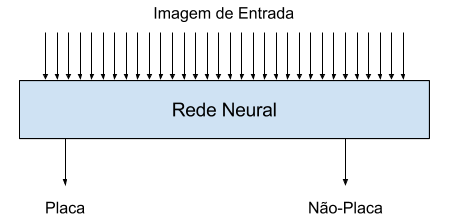
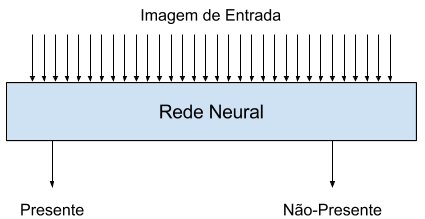
Alterações sugeridas pelo professor até o capítulo 2 foram integradas.

diff --git a/src/capitulo2.tex b/src/capitulo2.tex
@@ -3,7 +3,8 @@
 \chapter{Redes Neurais Convolucionais}
 \setcounter{figure}{100}
 
-Rede neural artificial (ANN) é um modelo computacional inspirado na forma com
+Rede neural artificial (\sigla{ANN}{\emph{Artificial Neural Network},
+rede neural artificial}) é um modelo computacional inspirado na forma com
 que o cérebro resolve problemas \cite{gilbert2000build}. Este modelo possui
 unidades, denominadas neurônios, que possuem um valor que é calculado como uma
 função do valor de outros neurônios.
@@ -267,7 +268,7 @@ a entrada seja nula.
 \subsection{Bordas} \label{ses:bordas}
 Como já foi mencionado, a convolução é aplicado de forma idêntica a aplicação
 de um filtro linear \cite{gonzalezwoods200708}, e assim como no caso dos
-filtros lineares, existem algumas opções no tratamento de bordas dos dados.
+filtros lineares, existem algumas opções para tratamento de bordas dos dados.
 
 Na figura \ref{fig:ex_conv_2d} o tamanho do tensor de saída foi reduzido
 de 6 para 4. Neste caso a opção foi por não extender as bordas. Por
@@ -381,19 +382,32 @@ acabam reduzindo consideravelmente o tamanho do tensor de saída. No caso de um
 maxpool $2 \times 2$, por exemplo, o tensor resultante vai ter 25\% do
 número de valores do tensor de entrada.
 
+Uma camada convolucional com pooling pode ser contada como uma única camada ou
+como duas, dependendo do caso. Em algumas arquiteturas mais complexas, como em
+\cite{szegedy2015going}, onde define-se camadas do tipo \emph{inception},
+pode não ser possível associar uma operação de \emph{pooling} a uma única
+convolução, requerendo contagem separada.
+
 \subsection{ReLu}
 Assim como em redes neurais totalmente conectadas, pode-se aplicar uma função
 de ativação para tornar a camada não-linear. As funções tangente
 hiperbólica, sigmóide ou outras tipicamente usadas em redes neurais
-não-convolucionais podem ser aplicadas. No entanto a função ReLu, ou linear
+não-convolucionais podem ser aplicadas. No entanto a função
+\sigla{ReLu}{\emph{Rectified linear}, linear retificada}, ou linear
 retificada, resulta em treinamento substancialmente mais rápido enquanto
-mantém a capacidade de
-generalização da rede neural treinada. A função ReLu é definida por:
+mantém a capacidade de generalização da rede neural treinada. A função
+ReLu é definida por:
 
 
 \begin{equation}
 	ReLu(x) = max(0,x)
 \end{equation}
+
+Quando uma camada de uma rede neural inclui apenas elementos lineares,
+ela é dita linear. O operador de convolução em sí é linear, então
+isso vai ocorrer quando a camanda não inclui uma função de ativação, como
+a ReLu e não possui outros elementos não-lineares, como \emph{maxpool},
+caso o pooling esteja sendo considerado como parte da camada convolucional.
 
 \subsection{Últimas Camadas}
 Após as camadas convolucionais terem sido aplicadas é necessário usar um
@@ -465,24 +479,54 @@ a rede neural aprende a reconhecer um \emph{feature} em um local da
 imagem, não vai
 conseguir reaproveitar essa capacidade em outras posições. Portanto teria que
 aprender a mesma \emph{feature} em cada possível posição onde ela possa
-aparecer, e
-fazer isso para todas as \emph{features}.
+aparecer, e fazer isso para todas as \emph{features}.
 
 Como a primeira operação feita foi converter a imagem para um formato “plano”, a
 geometria da imagem foi destruída. Não é mais possível determinar quando dois
 pixels estão próximos, e essa é uma informação muito importante sobre a imagem.
 
+\subsection{Uso de descritores}
+Uma das abordagens possíveis para reconhecimento e detecção de imagens é o uso
+de descritores. Esta foi a abordagem dominante até pouco tempo atrás.
+
+Os descritores são operações que tomam uma imagem como entrada e resumem as sua
+características em um set menor de informações. Exemplos de descritores muito
+usados são \sigla{LBP}{Local binary patterns} \cite{wang1990texture},
+\sigla{ORB}{Oriented FAST and rotated BRIEF} \cite{rublee2011orb},
+\sigla{HOG}{Histogram of oriented gradients} \cite{dalal2005histograms},
+Haar-Wavelets \cite{nabout2008object},
+filtros de Gabor \cite{riaz2012invariant}. O treinamento é realizado sobre
+as features extraídas pelo descritor escolhido usando um classificador como
+redes neurais ou \sigla{SVM}{\emph{Support vector machine}}.
+
+Para usar esta abordagem um descritor precisa ser escolhido e configurado,
+muitas vezes manualmente. O desempenho do sistema como um todo vai depender
+dessas escolhas. Se a operação de detecção depender de conceitos complexos,
+envolvendo correlação entre múltiplas características, o descritor e o
+classificador precisam ser escolhidos especificamente para isso.
+
 \subsection{Redes Neurais Convolucionais em Imagens}
+As redes neurais convolucionais operam diretamente nos pixels da imagem, não
+sendo necessário escolher um descritor, e não possuem os problemas que as
+redes não-convolucionais possuem. As camadas convolucionais se comportam como
+descritores, porém os parâmetros são aprendidos como parte do processo de
+treinamento, portanto são otimizados para responderem precisamente para os
+exmeplos que forem fornecidos. Apenas alguns hiperparâmetros, como tamanho
+da convolução, número de filtros e de camadas precisam ser escolhidos mediante
+decisões de meta de precisão e recall, tempo para classificação e complexidade
+dos conceitos a serem aprendidos.
+
 As redes neurais convolucionais resolvem todos esses problemas simultaneamente.
 O primeiro ponto é a preservação da geometria da imagem. Se uma imagem de 50
 pixels de altura por 100 pixels de largura contendo 3 canais de cor for usado na
 entrada de uma rede neural convolucional, ela precisa ser representada por um
-tensor apropriado, como $32 \times 40 \times 120 \times 3$. Este tensor
-permite alimentar a rede neural com 32 imagens.
+tensor apropriado, como $32 \times 50 \times 100 \times 3$. Este tensor
+permite alimentar a rede neural com um lote de 32 imagens.
 
 Para aplicar uma camada convolucional à imagem de entrada escolhe-se o tamanho
 da convolução, o número de filtros e o modo de operação nas bordas. A figura
-\ref{fig:ex_cnn_img} ilustra um filtro 33 sendo aplicado à uma imagem RGB.
+\ref{fig:ex_cnn_img} ilustra um filtro 33 sendo aplicado a uma imagem
+\sigla{RGB}{\emph{Red, green, blue}, vermelho, verde, vermelho}.
 
 \begin{figure}[!htb]
 	\centering
@@ -501,7 +545,7 @@ da convolução, o número de filtros e o modo de operação nas bordas. A figur
 Para que o filtro tenha profundidade 64, por exemplo, o tensor que define o
 filtro será $64 \times 3 \times 3 \times 3$ e o tensor resultante da
 convolução será $32 \times 40 \times 120 \times 64$,
-considerando que seja usado padding nas bordas.
+considerando que seja usado preenchimento nas bordas.
 
 Para finalizar a camada convolucional adiciona-se um bias. Para isso usa-se um
 escalar para cada uma das 64 imagens resultantes. O tensor que define os bias é
@@ -520,7 +564,7 @@ ilustra o uso das três camadas em sequência.
 	Exemplo de uma sequência de operações feitas usando uma rede neural
 	convolucional incluindo 64 convoluções $3 \times 3$, maxpool e ReLu
 	aplicadas em uma
-	batch de 32 imagens $40 \times 120 \times 3$. Os parâmetros treináveis
+	lote de 32 imagens $40 \times 120 \times 3$. Os parâmetros treináveis
 	estão destacados (próprio autor).
 \end{figure}
 
@@ -529,13 +573,13 @@ o tamanho total do tensor seja pequeno o suficiente para poder ser processado
 por duas camadas totalmente conectadas. 
 
 \subsection{Uso de Cores}
-Em alguns sistemas de visão computacional costuma-se usar imagens em
+Em alguns sistemas de visão computacional são usadas imagens em
 tons de cinza. No caso de redes convolucionais o mais comum é usar
 imagens coloridas.
 
 O primeiro motivo para isso é que as imagens e vídeos são normalmente
-captadas com cores, então colorir vai requere processar a imagem para
-que a conversao seja feita. 
+captadas com cores, então o processo de detecção teria que incluir uma operação
+de conversão para escala de cinza. 
 
 Pode-se demonstrar todos os métodos de conversão lineares de RGB para escala de
 cinzas, como:
@@ -554,12 +598,12 @@ essa conversão de forma eficiente, sendo que os coeficientes associados
 treinados pelo otimizador, potencialmente obtendo uma conversão mais apropriada
 para a rede neural.
 
-Outro ponto é que os sistemas os classificadores de imagem usam cores
-\cite{szegedy2015going} \cite{hasanpour2016lets}, portanto nos casos onde
-existe \emph{budget} computacional suficiente para se usar um número razoável
-de convoluções na primeira camada, a informação da cor pode ser vantajosa
-para para minimizar os erros da rede neural.
-
+Outro ponto é que os sistemas que representam o atual
+estado-da-arte para reconhecimento de imagem, como \cite{szegedy2015going}
+\cite{hasanpour2016lets}, usam cores, portanto nos casos onde
+existe \emph{budget} computacional, e particularmente quando é possível usar
+vários filtros convolucionais na primeira camada, a informação da cor pode
+ser vantajosa para para minimizar os erros da rede neural.
 
 \subsection{Reconhecimento de Objetos}
 Existem várias maneiras de se usar redes neurais para reconhecer objetos. Duas
@@ -581,9 +625,9 @@ usando a equação:
 		{\sum_j exp\left( \widehat{out}[j] \right)}
 \end{equation}
 
-Para identificar a presença ou não de uma placa de um veículo, duas classes
-seriam definidas: "placa" e "não-placa", resultando em uma rede neural como
-mostrada na figura \ref{fig:ex_classif_logist}.
+Para identificar a presença ou não do objeto que está sendo procurado, duas
+classes seriam definidas: "presente" e "não-presente", resultando em uma rede
+neural como mostrada na figura \ref{fig:ex_classif_logist}.
 
 \begin{figure}[!htb]
 	\centering
@@ -591,8 +635,8 @@ mostrada na figura \ref{fig:ex_classif_logist}.
 	\caption{Exemplo de Classificador Logístico}
 	\label{fig:ex_classif_logist}
 	Este exemplo de rede neural possui uma imagem como entrada e possui duas
-	saídas, uma informando a probabilidade da imagem conter uma placa e a
-	outra indicando a probabilidade de não conter (próprio autor).
+	saídas, uma informando a probabilidade da imagem conter o objeto, outra
+	indicando a probabilidade de não conter (próprio autor).
 \end{figure}
 
 Este modelo pode ser treinado usando modo supervisionado, onde imagens
@@ -603,14 +647,17 @@ otimizador é a função \emph{cross entropy}:
 	\widehat{H} = - \sum_i \widehat{y_i} log(y_i)
 \end{equation}
 
-Onde $y$ é um tensor de dimensão $2$ que indica as probabilidades manualmente
-marcadas de uma imagem pertencer a cada classe (no caso, a probabilidade ser uma
-placa de carro e a probabilidade de não ser) e $y$ é um tensor com o mesmo número
-de dimensões que indica o valor estimado pela rede neural. $H$ é o valor estimado
-de \emph{cross entropy}.
+Onde $y_i$ é o valor da probabilidade manualmente
+marcadas de uma imagem pertencer à classe $i$ (no caso, a probabilidade de ser
+uma imagem que contém o objeto e a probabilidade não conter) e $\widehat{y_i}$
+é o valor estimado pela rede neural. $H$ é o valor estimado de
+\emph{cross entropy}.
 
-No nosso caso temos total certeza de que uma imagem é ou não uma placa, então
-serão usados somente os valores $0$ e $1$ para $y$.
+Quando têm-se o objeto desejado centrado na imagem, ou o objeto não consta
+em lugar nenhum da imagem usa-se os valores $0$ e $1$ para rotular os exemplos.
+Os casos onde o objeto está visível apenas parcialmente deve ser considerado
+cuidadosamente, produzindo valores intermediários nos rótulos, para evitar que
+duas imagens parecidas gerem valores muito diferentes na saída da rede neural.
 
 As redes neurais também podem ser usadas para fazer regressão, ou seja, modelar
 uma função. A forma mais óbvia de implementação é a regressão L2. Neste tipo de
@@ -624,15 +671,15 @@ A rede neural pode ser usada para modelar a função $P$, definida por:
 
 \begin{equation}
 	P(img) = \begin{cases}
-		1 \text{, se img contém uma placa} \\
-		0 \text{, se img não contém uma placa}
+		1 \text{, se img contém o objeto procurado} \\
+		0 \text{, se img não contém}
 	\end{cases}
 \end{equation}
 
-Exatamente essa definição não seria ideal. Uma definição alternativa que possa
-representar uma placa parcialmente visível na imagem usando um número entre 0 e
-$1$ vai ser necessária para evitar a criação de ruído no valor da perda que está
-sendo minimizado.
+Exatamente essa definição não seria ideal, pois não considera placas visíveis
+parcialmente. Em uma implementação real de classificador baseado neste método
+precisa definir uma função que seja contínua em resposta ao objeto é movido do
+centro da imagem para fora por qualquer caminho.
 
 \subsection{Localização de Objetos} \label{sec:localiz_objetos}
 Até agora foi mostrado como usar redes neurais convolucionais para detectar um
@@ -642,31 +689,11 @@ coordenadas do objeto.
 
 Um sistema de localização pode ser construído a partir de um sistema de
 detecção. A abordagem mais simples para isso envolve construir um sistema capaz
-de detectar o objeto de interesse, no caso uma placa de trânsito, e aplicar este
-detector à imagem usando um operador de correlação cruzada em
-duas dimensões. Se o
-detector for construído para produzir “1” quando detectar o objeto e “0” então
-os pontos de máxima são candidatos a centros dos objetos.
+de detectar o objeto de interesse e aplicar este
+detector à imagem várias vezes a imagem usando "janelas deslizantes".
+Se o detector for construído para produzir “1” quando detectar o objeto e
+“0” então os pontos de máxima são candidatos a centros dos objetos.
 
-Como em uma correlação cruzada, assim como na convolução, cada número de um dos
-operandos é multiplicado por todos os números contidos no outro operando, como
-demonstrado visualmente na figura \ref{fig:ex_sliding_stride1}. A propriedade
-é extensível para qualquer número de dimensões. O número de somas é igual ao
-número de multiplicações menos 1.
-
-
-\begin{figure}[!htb]
-	\centering
-	\includegraphics{ex_sliding_stride1.png}
-	\caption{Multiplicações resultantes do uso de janela deslisante}
-	\label{fig:ex_sliding_stride1}
-	Demonstração visual de que cada termo de cada operando em uma operação de
-	correlação cruzda é multiplicado exatamente uma vez por cada
-	um dos termos do outro operando, resultando em um número de
-	multiplicações igual ao produto do número de termos em cada operando
-	(próprio autor).
-\end{figure}
-
-A consequência disso é que quando se calcula a correlação cruzada entre duas
-imagens o número total de multiplicações é igual ao produto do número de pixels
-em cada imagem.
+Como cada pixel da imagem é candidato a centro do objeto que está sendo
+localizado, deve-se aplicar o filtro uma vêz para cada pixel. Se não houver
+extensão de bordas, o filtro não pode ser aplicado em parte dos pixels.

diff --git a/src/capitulo1.tex b/src/capitulo1.tex
@@ -13,12 +13,14 @@ possibilidade da busca por estratégias com menor custo ou melhor
 desempenho, à medida que avanços no campo do reconhecimento de
 imagens acontecem.
 
-Redes neurais convolucionais (CNN, convolutional neural networks)
+Redes neurais convolucionais (\sigla{CNN}{\emph{Convolutional neural network},
+rede neural convolucional}, convolutional neural networks)
 são tipos de redes neurais biologicamente inspiradas no conceito
 de campos receptivos \cite{hubel1968receptive}. Este tipo de
 rede viabilizou o uso de redes neurais que são alimentadas
 diretamente pelos pixels da imagem \cite{lecun1998gradient}. O
-advento das Redes Neurais Convolucionais Profundas (DCNN, deep CNN)
+advento das Redes Neurais Convolucionais Profundas (\sigla{DCNN}{\emph{Deep
+convolutional neural network}, rede neural convolucional profunda}, deep CNN)
 viabilizou um grande salto na capacidade de sistemas computacionais
 de classificação. O uso de mais camadas permite níveis maiores de
 abstração na análise da imagem, o que resulta em maior taxa de

diff --git a/src/capitulo4.tex b/src/capitulo4.tex
@@ -15,7 +15,7 @@ conforme ilustrado na figura \ref{fig:etapas_metodo_proposto}.
 
 O processo “extração” é responsável por obter as frames do vídeo. Uma frame é
 equivalente a uma imagem 2D, e pode ser representada por tensores de dimensões
-HWC (largura, altura e canais de cor). Todos os frames de um mesmo vídeo geram
+\sigla{HWC}{\emph{Height X Width X Channel}, algura X largura X canal} (largura, altura e canais de cor). Todos os frames de um mesmo vídeo geram
 tensores do mesmo tamanho.
 
 O processo “segmentação” toma como entrada uma frame do vídeo e gera múltiplas
@@ -99,7 +99,8 @@ que ser aplicado $N$ vezes, onde:
 	N = (F_1 - D_1 + 1) \cdot (F_2 - D_2 + 1)
 \end{equation}
 
-Para um detector com dimensões HW de $40 \times 120$ em uma imagem
+Para um detector com dimensões \sigla{HW}{\emph{Height X width}, algura X
+largura} de $40 \times 120$ em uma imagem
 $480 \times 768$ seriam gerados 286.209 segmentos, e cada um deles precisaria
 ser aplicado pelo detector, o que é proibitivo.
 

diff --git a/tcc.tex b/tcc.tex
@@ -81,7 +81,7 @@ em Engenharia de Computação da
 %Listas. Obrigatório quando constar no desenvolvimento do trabalho. Consultar o documento das normas da ABNT para maiores detalhes.
 \listadefiguras
 \listadetabelas
-%\listadesiglas
+\listadesiglas
 %\listadesimbolos
 
 \sumario
